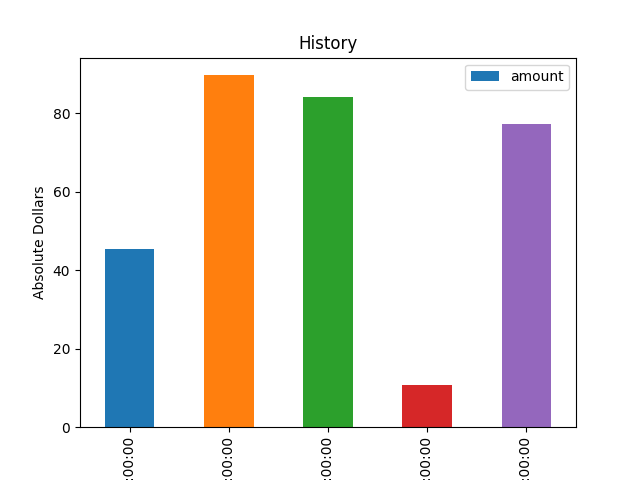
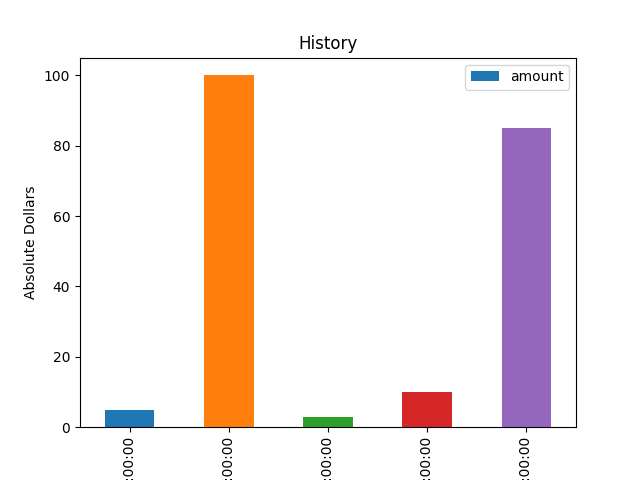
Added plotting

diff --git a/innerHTML/add.html b/innerHTML/add.html
@@ -1,39 +1,39 @@
 <h2>Add Entry</h2>
 <form id="entry" action="/addlog"><table>
 <tr><td>Title:</td>
-<td><input type="text" name="title"></td>
-<td>Location:</td>
-<td><input type="text" name="loc"></td></tr>
+    <td><input type="text" name="title"></td>
+    <td>Location:</td>
+    <td><input type="text" name="loc"></td></tr>
 <tr><td>From:</td>
-<td><select name="from" form="entry">
-{:ACCTS:}
-</select></td>
-<td>To:</td>
-<td><select name="to" form="entry">
-{:ACCTS:}
-</select></td>
-<td>Amount:</td>
-<td><input type="number" name="amount" min="0" step=".01"></td></tr>
+    <td><select name="from" form="entry">
+    {:ACCTS:}
+    </select></td>
+    <td>To:</td>
+    <td><select name="to" form="entry">
+    {:ACCTS:}
+    </select></td>
+    <td>Amount:</td>
+    <td><input type="number" name="amount" min="0" step=".01"></td></tr>
 <tr><td>Date:</td>
-<td><input type="text" name="date" size="10"></td>
-<td>Note:</td>
-<td><input type="text" name="note" size="10"></td>
-<td><input type="submit" value="Log"></td>
+    <td><input type="text" name="date" size="10"></td>
+    <td>Note:</td>
+    <td><input type="text" name="note" size="10"></td>
+    <td><input type="submit" value="Log"></td>
 </table></form>
 
 <h2>Add Category</h2>
 <form id="cat" action="/addcat"><table>
 <tr><td>Name:</td>
-<td><input type="text" name="name"></td>
-<td>Goal:</td>
-<td><input type="number" name="goal"></td></tr>
+    <td><input type="text" name="name"></td>
+    <td>Goal:</td>
+    <td><input type="number" name="goal"></td></tr>
 <tr><td>Titles:</td>
-<td><input type="text" name="titles"></td>
-<td>Locations:</td>
-<td><input type="text" name="locs"></td></tr>
+    <td><input type="text" name="titles"></td>
+    <td>Locations:</td>
+    <td><input type="text" name="locs"></td></tr>
 <tr><td>Accounts:</td>
-<td><input type="text" name="accts"></td>
-<td><input type="submit" value="Add"></td></tr>
+    <td><input type="text" name="accts"></td>
+    <td><input type="submit" value="Add"></td></tr>
 </table></form>
 
 <h2>Add Account</h2>

diff --git a/innerHTML/history.html b/innerHTML/history.html
@@ -1,29 +1,29 @@
 <h2>History</h2>
 <form id="hist"><table>
 <tr><td>Results:</td>
-<td><input type="number" name="results" size="4" value="{:RESULTS:}"></td>
-<td>Title:</td>
-<td><input type="text" name="title" value="{:TITLE:}"></td>
-<td>Location:</td>
-<td><input type="text" name="loc" value="{:LOC:}"></td></tr>
+    <td><input type="number" name="results" size="4" value="{:RESULTS:}"></td>
+    <td>Title:</td>
+    <td><input type="text" name="title" value="{:TITLE:}"></td>
+    <td>Location:</td>
+    <td><input type="text" name="loc" value="{:LOC:}"></td></tr>
 <tr><td>Transfer Type:</td>
-<td><select name="transType" form="hist">
-{:TRANSTYPE:}
-</select></td>
-<td>Account:</td>
-<td><select name="acct" form="hist">
-{:ACCTS:}
-</select></td>
-<td>Category:</td>
-<td><select name="cat" form="hist">
-{:CATS:}
-</select></td></tr>
+    <td><select name="transType" form="hist">
+    {:TRANSTYPE:}
+    </select></td>
+    <td>Account:</td>
+    <td><select name="acct" form="hist">
+    {:ACCTS:}
+    </select></td>
+    <td>Category:</td>
+    <td><select name="cat" form="hist">
+    {:CATS:}
+    </select></td></tr>
 <tr><td>Start Date:</td>
-<td><input type="text" name="start" size="10" value="{:START:}"></td>
-<td>End Date:</td>
-<td><input type="text" name="end" size="10" value="{:END:}"></td>
-<td><input type="checkbox" name="plot">Plot?</td>
-<td><input type="submit" value="Search"></td></tr>
+    <td><input type="text" name="start" size="10" value="{:START:}"></td>
+    <td>End Date:</td>
+    <td><input type="text" name="end" size="10" value="{:END:}"></td>
+    <td><input type="checkbox" name="plot"{:CHECKED:}>Plot?</td>
+    <td><input type="submit" value="Search"></td></tr>
 </table></form>
 <table class="data">
 <tr class="header">

diff --git a/innerHTML/plot.html b/innerHTML/plot.html
@@ -1,0 +1,21 @@
+<h2>History</h2>
+<form id="hist"><table>
+<tr><td>Units:</td>
+    <td><select name="units" form="hist">
+    {:UNITS:}
+    </select></td>
+    <td>Account:</td>
+    <td><select name="acct" form="hist">
+    {:ACCTS:}
+    </select></td></tr>
+<tr><td>Start Date:</td>
+    <td><input type="text" name="start" size="10" value="{:START:}"></td>
+    <td>End Date:</td>
+    <td><input type="text" name="end" size="10" value="{:END:}"></td></tr>
+<tr><td><input type="checkbox" name="invert"{:ICHECKED:}>Invert</td>
+    <td><input type="checkbox" name="points"{:PCHECKED:}>Points</td>
+    <td><input type="checkbox" name="noLine"{:NCHECKED:}>No Line</td>
+    <td><input type="checkbox" name="allPoints"{:ACHECKED:}>All Points</td>
+    <td><input type="checkbox" name="totals"{:TCHECKED:}>Totals</td>
+    <td><input type="submit" value="Search"></td></tr>
+</table></form>

diff --git a/base.html b/base.html
@@ -47,6 +47,8 @@
             <a href="/add" class="option">Add</a>
             <span class="spacer"></span>
             <a href="/history" class="option">History</a>
+            <span class="spacer"></span>
+            <a href="/plot" class="option">Plot</a>
         </div>
         <div id="body">
             {:BODY:}

diff --git a/server.py b/server.py
@@ -112,6 +112,8 @@ class requestHandler(http.server.BaseHTTPRequestHandler):
                 visualHistory(finances, results)
                 plt.savefig('vhist.png')
                 text += '<img src="vhist.png">'
+                text = text.replace('{:CHECKED:}', ' checked')
+            text = text.replace('{:CHECKED:}', '')
         elif path.startswith('/addlog'):
             # request to create a new log entry
             # read queries and create defaults
@@ -170,6 +172,78 @@ class requestHandler(http.server.BaseHTTPRequestHandler):
             for acct in [''] + finances.accounts:
                 accts += '<option value="' + acct + '">' + acct + '</option>'
             text = text.replace('{:ACCTS:}', accts)
+        elif path.startswith('/plot'):
+            # plot tab
+            # read queries and create defaults
+            queries = {'units': 'days', 'acct': '', 'start': '', 'end': '', 'invert': '', 'points': '', 'noLine': '', 'allPoints': '', 'totals': ''}
+            queryStrs = re.findall('([A-z0-9]+=[^&]+)', path)
+            for q in queryStrs:
+                key, val = q.split('=')
+                if key[-1] == '?':
+                    key = key[:-1]
+                queries[key] = val
+            
+            # load in base history section
+            text = 'No page.'
+            with open('innerHTML/plot.html', 'r') as f:
+                text = f.read()
+
+            # fill in blanks with text from queries
+            text = text.replace('{:START:}', correctFormat(finances, 'date', queries['start']))
+            text = text.replace('{:END:}', correctFormat(finances, 'date', queries['end']))
+
+            invert = queries['invert'] == 'on'
+            if invert:
+                text = text.replace('{:ICHECKED:}', ' checked')
+            else:
+                text = text.replace('{:ICHECKED:}', '')
+
+            points = queries['points'] == 'on'
+            if points:
+                text = text.replace('{:PCHECKED:}', ' checked')
+            else:
+                text = text.replace('{:PCHECKED:}', '')
+
+            noLine = queries['noLine'] == 'on'
+            if noLine:
+                text = text.replace('{:NCHECKED:}', ' checked')
+            else:
+                text = text.replace('{:NCHECKED:}', '')
+
+            allPoints = queries['allPoints'] == 'on'
+            if allPoints:
+                text = text.replace('{:ACHECKED:}', ' checked')
+            else:
+                text = text.replace('{:ACHECKED:}', '')
+
+            totals = queries['totals'] == 'on'
+            if totals:
+                text = text.replace('{:TCHECKED:}', ' checked')
+            else:
+                text = text.replace('{:TCHECKED:}', '')
+
+            # fill in transaction type options
+            trans = ''
+            for tt in ['days', 'weeks', 'months', 'quarters', 'years']:
+                selected = ''
+                if tt == queries['units']:
+                    selected = ' selected="selected"'
+                trans += '<option value="' + tt + '"' + selected + '>' + tt + '</option>'
+            text = text.replace('{:UNITS:}', trans)
+
+            # fill in accounts
+            accts = ''
+            for acct in [''] + finances.accounts:
+                selected = ''
+                if acct == queries['acct']:
+                    selected = ' selected="selected"'
+                accts += '<option value="' + acct + '"' + selected + '>' + acct + '</option>'
+            text = text.replace('{:ACCTS:}', accts)
+
+            # search database
+            plot(finances, queries['units'], queries['acct'], queries['start'], queries['end'], invert, points, noLine, allPoints, totals)
+            plt.savefig('plot.png')
+            text += '<img src="plot.png">'
         else:
             # balances tab
             # load in base balances section

diff --git a/features.py b/features.py
@@ -272,17 +272,16 @@ def edit(finances, row, column, new):
         return False
 
 # plot an account's value over time
-def plot(finances, units, acct, cat, start, end, invert, points, noLine, allPoints, totals):
+def plot(finances, units, acct, start, end, invert, points, noLine, allPoints, totals):
     units = units.lower()
 
     # get optional arguments
-    acct        = correctFormat(finances, 'account', acct)
-    cat         = correctFormat(finances, 'category', cat)
-    start       = correctFormat(finances, 'date', start)
-    end         = correctFormat(finances, 'date', end)
+    acct    = correctFormat(finances, 'account', acct)
+    start   = correctFormat(finances, 'date', start)
+    end     = correctFormat(finances, 'date', end)
 
     # request data
-    results = totalsPerUnitTime(finances, units, acct=acct, start=start, end=end, category=cat)
+    results = totalsPerUnitTime(finances, units, acct=acct, start=start, end=end)
 
     # give up if request failed
     if results.empty:

diff --git a/commands.py b/commands.py
@@ -274,7 +274,6 @@ def CLIplot(finances, args):
 
     # get optional arguments
     acct        = getOpArg(args, 'acct')
-    cat         = getOpArg(args, 'cat')
     start       = getOpArg(args, 'start')
     end         = getOpArg(args, 'end')
     invert      = getOpArg(args, 'invert', default=False)
@@ -283,7 +282,7 @@ def CLIplot(finances, args):
     allPoints   = getOpArg(args, 'alldays', default=False)
     totals      = getOpArg(args, 'totals', default=False)
 
-    plot(finances, units, acct, cat, start, end, invert, points, noLine, allPoints, totals)
+    plot(finances, units, acct, start, end, invert, points, noLine, allPoints, totals)
     plt.show()
 
 # reset the configuration
